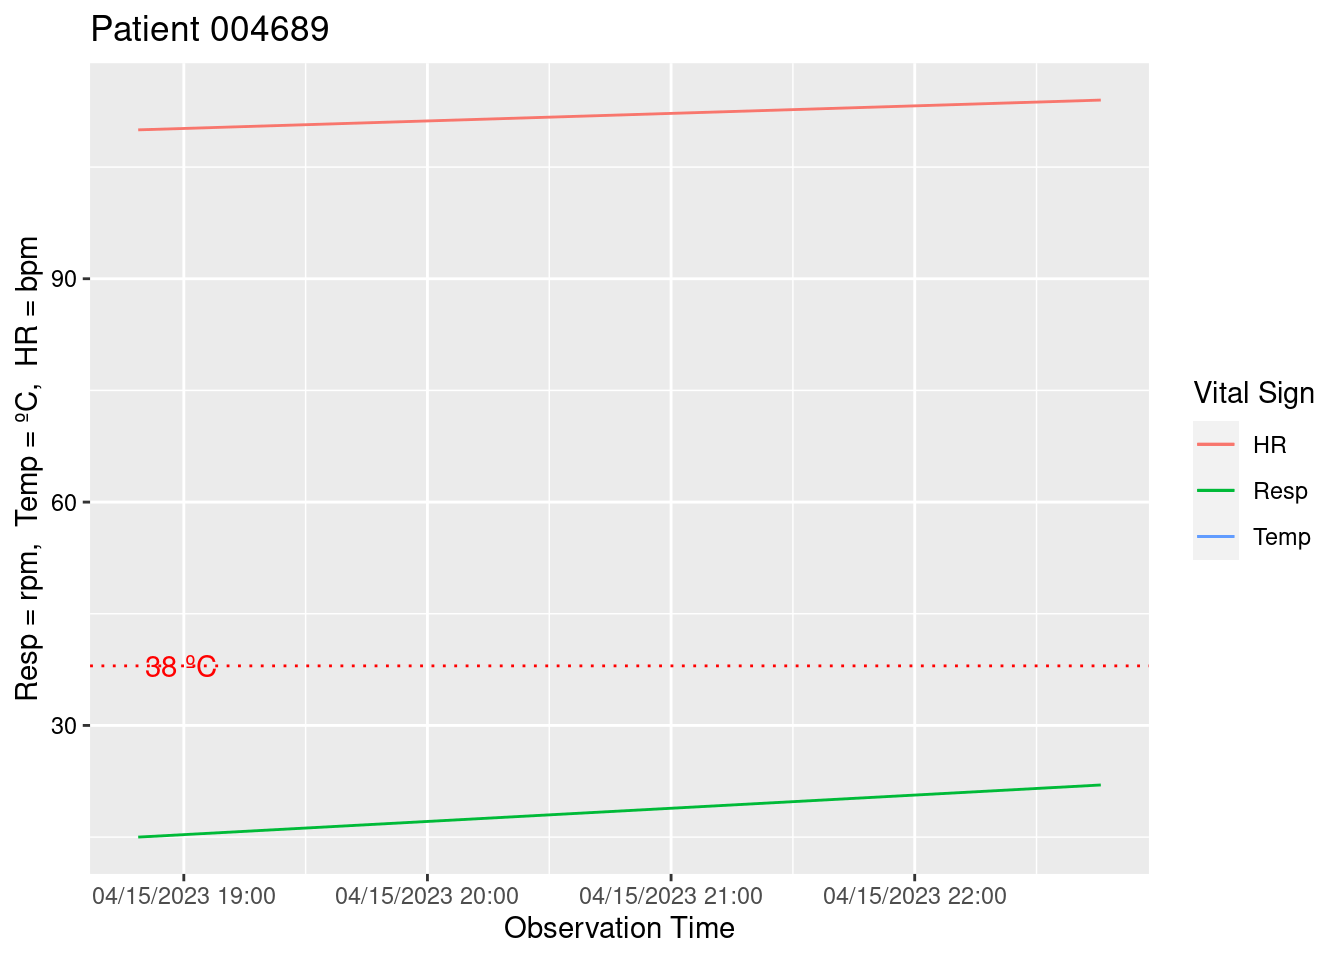
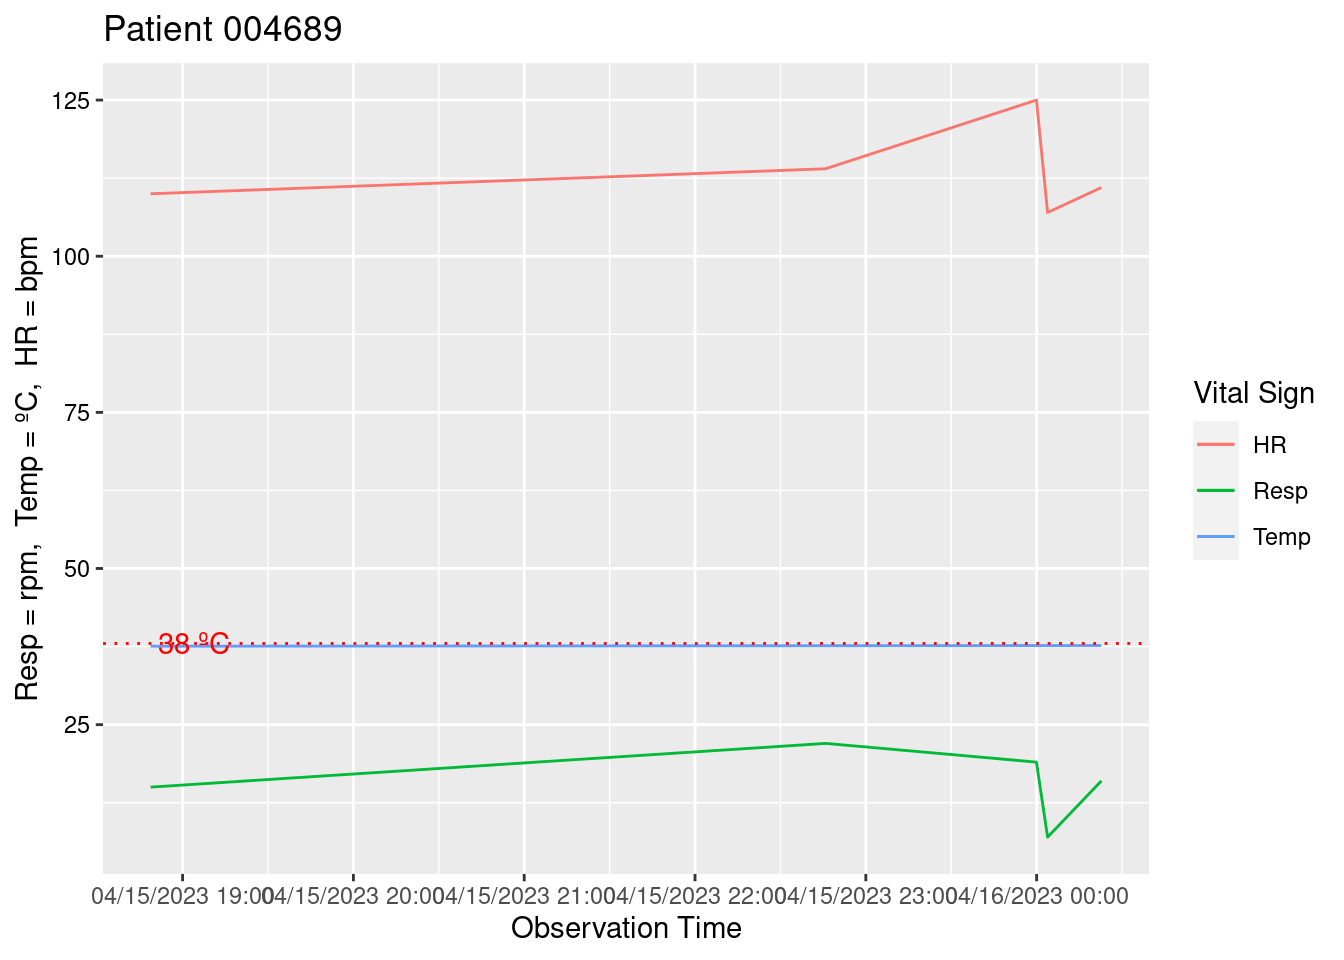
Updated report

diff --git a/Assignment-7.html b/Assignment-7.html
@@ -139,8 +139,8 @@ code span.wa { color: #60a0b0; font-weight: bold; font-style: italic; } /* Warni
 
 <section id="assignment-7" class="level1">
 <h1>Assignment 7</h1>
-<section id="date-and-time-2023-04-15-231115" class="level3">
-<h3 class="anchored" data-anchor-id="date-and-time-2023-04-15-231115">Date and Time: 2023-04-15 23:11:15</h3>
+<section id="date-and-time-2023-04-16-005658" class="level3">
+<h3 class="anchored" data-anchor-id="date-and-time-2023-04-16-005658">Date and Time: 2023-04-16 00:56:58</h3>
 <div class="cell">
 <div class="sourceCode cell-code" id="cb1"><pre class="sourceCode r code-with-copy"><code class="sourceCode r"><span id="cb1-1"><a href="#cb1-1" aria-hidden="true" tabindex="-1"></a><span class="fu">source</span>(<span class="st">"sepsis_monitor_functions.R"</span>)</span>
 <span id="cb1-2"><a href="#cb1-2" aria-hidden="true" tabindex="-1"></a></span>
@@ -198,14 +198,14 @@ code span.wa { color: #60a0b0; font-weight: bold; font-style: italic; } /* Warni
 <tr class="odd">
 <td style="text-align: left;">003231</td>
 <td style="text-align: right;">98</td>
-<td style="text-align: right;">38.9</td>
+<td style="text-align: right;">38.90</td>
 <td style="text-align: right;">19</td>
 </tr>
 <tr class="even">
 <td style="text-align: left;">004689</td>
-<td style="text-align: right;">114</td>
-<td style="text-align: right;">NA</td>
-<td style="text-align: right;">22</td>
+<td style="text-align: right;">111</td>
+<td style="text-align: right;">37.67</td>
+<td style="text-align: right;">16</td>
 </tr>
 <tr class="odd">
 <td style="text-align: left;">007128</td>
@@ -340,7 +340,7 @@ code span.wa { color: #60a0b0; font-weight: bold; font-style: italic; } /* Warni
 <td style="text-align: left;">004689</td>
 <td style="text-align: right;">4</td>
 <td style="text-align: right;">NA</td>
-<td style="text-align: right;">7</td>
+<td style="text-align: right;">9</td>
 </tr>
 <tr class="odd">
 <td style="text-align: left;">007128</td>
